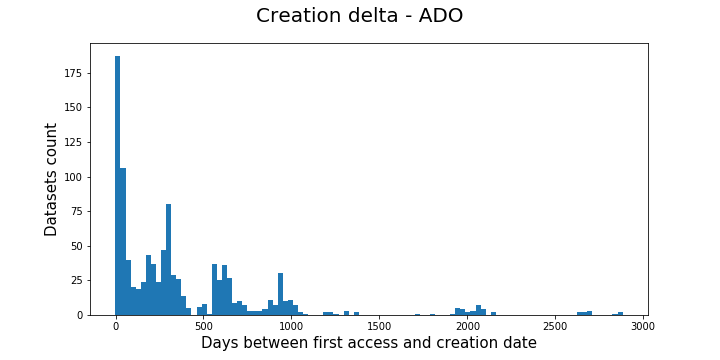
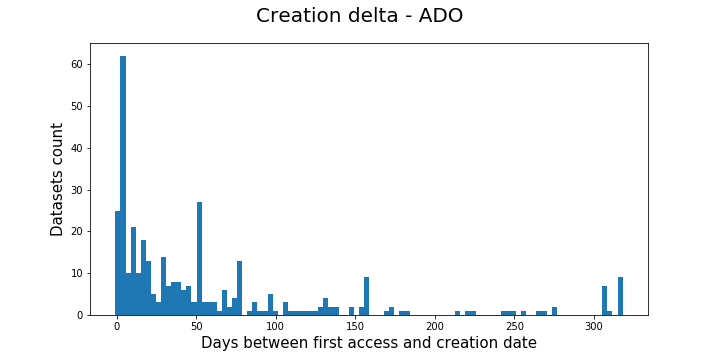
Drop datasets older than June 2018, recreate deltaT histograms

diff --git a/models/algorithmUtils.py b/models/algorithmUtils.py
@@ -102,16 +102,19 @@ def get_sorted_list_of_datasets_sets(weeks_df):
 ###############################################################################
 #                       MAIN ALGORITHM
 ###############################################################################
-def get_freed_recalled_and_ws_sizes(weeks_list, policy, datasets_size):
+def get_freed_recalled_and_ws_sizes(weeks_list, weeks_first_access_list, policy, datasets_size):
     freed = set()
-    recalled_per_week = []
     freed_per_week = []
     called_per_week = []
     working_set_size_per_week=[]
     ws_per_week = []
     to_free = set()
     to_recall = set()
-    
+    newly_called = set()
+    really_recalled = set()
+    really_recalled_per_week = []
+    newly_called_per_week = []
+ 
     # Fill in the first 'policy' weeks with empty sets given that nothing could have
     # recalled nor freed during those weeks.
     # The working set size for these first 'policy' weeks will be accumulated set of
@@ -134,9 +137,15 @@ def get_freed_recalled_and_ws_sizes(weeks_list, policy, datasets_size):
         int_ws = set()
         int_ws_to = i - 1
         int_ws_from = i - (policy) + 1
+        
+        # Get the set of datasets that have been accessed for first time in the
+        # N weeks prior to the current week which is pointed by (i)
+        for j in range(i-policy-deltaT, i):
+            newly_created.update(weeks_first_access_list[j])
  
         for j in range(int_ws_from, int_ws_to+1):
             int_ws.update(weeks_list[j])
+
         new_week = weeks_list[i]
         old_week = weeks_list[int_ws_from -1]
         
@@ -147,10 +156,17 @@ def get_freed_recalled_and_ws_sizes(weeks_list, policy, datasets_size):
         # counts as recalled regardless whether it was freed or not 
         #to_recall = (new_week - (int_ws.union(old_week))).intersection(freed)
         to_recall = (new_week - (int_ws.union(old_week)))
-       
+        for dataset in to_recall:
+            if dataset in newly_created:
+                newly_called.update(dataset)
+            else:
+                really_recalled.update(dataset)
+        
         working_set_size_per_week.append(current_working_set_size)
         freed.update(to_free)
-        recalled_per_week.append(to_recall)
+        #recalled_per_week.append(to_recall)
+        really_recalled_per_week.append(really_recalled)
+        newly_called_per_week.append(newly_called)
         freed_per_week.append(to_free)
 
     return freed_per_week, recalled_per_week, working_set_size_per_week
